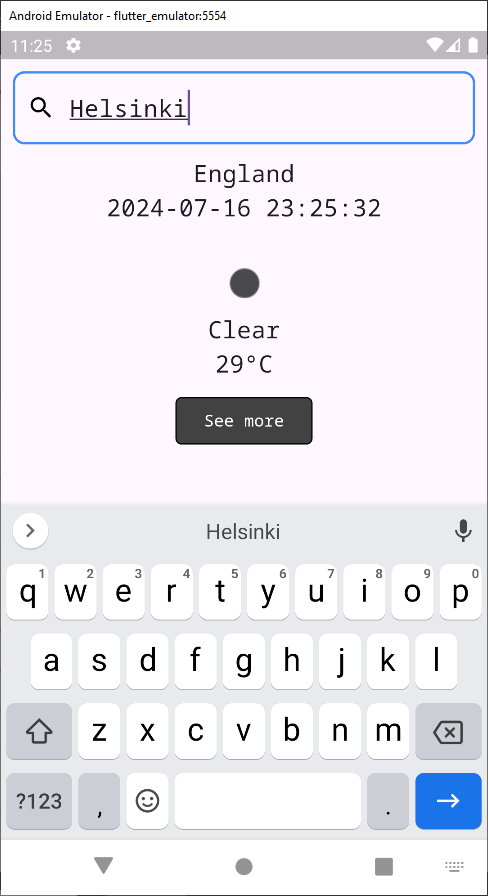
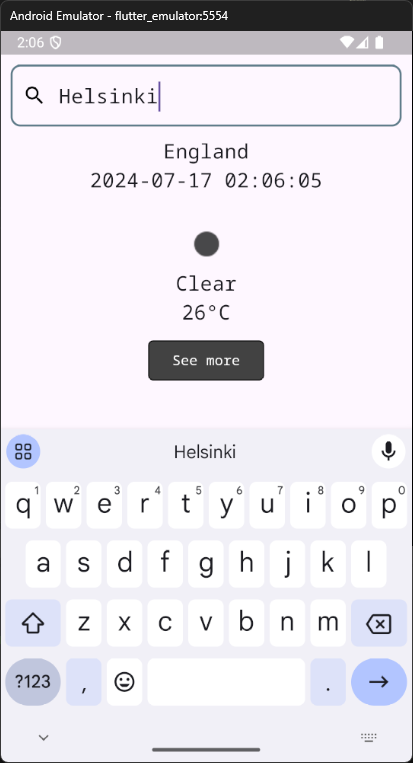
Update README.md

diff --git a/weather_app/lib/pages/weather_page.dart b/weather_app/lib/pages/weather_page.dart
@@ -125,7 +125,7 @@ class _WeatherPageState extends State<WeatherPage> {
                       focusedBorder: OutlineInputBorder(
                         borderRadius: BorderRadius.circular(10.0),
                         borderSide: const BorderSide(
-                            color: Colors.blueAccent, width: 2.0),
+                            color: Colors.blueGrey, width: 2.0),
                       ),
                       hintText: "Weather in your city",
                     ),

diff --git a/README.md b/README.md
@@ -3,3 +3,4 @@
 1. To Do App
 2. Coffee App
 3. Note Taking App
+4. Weather App
